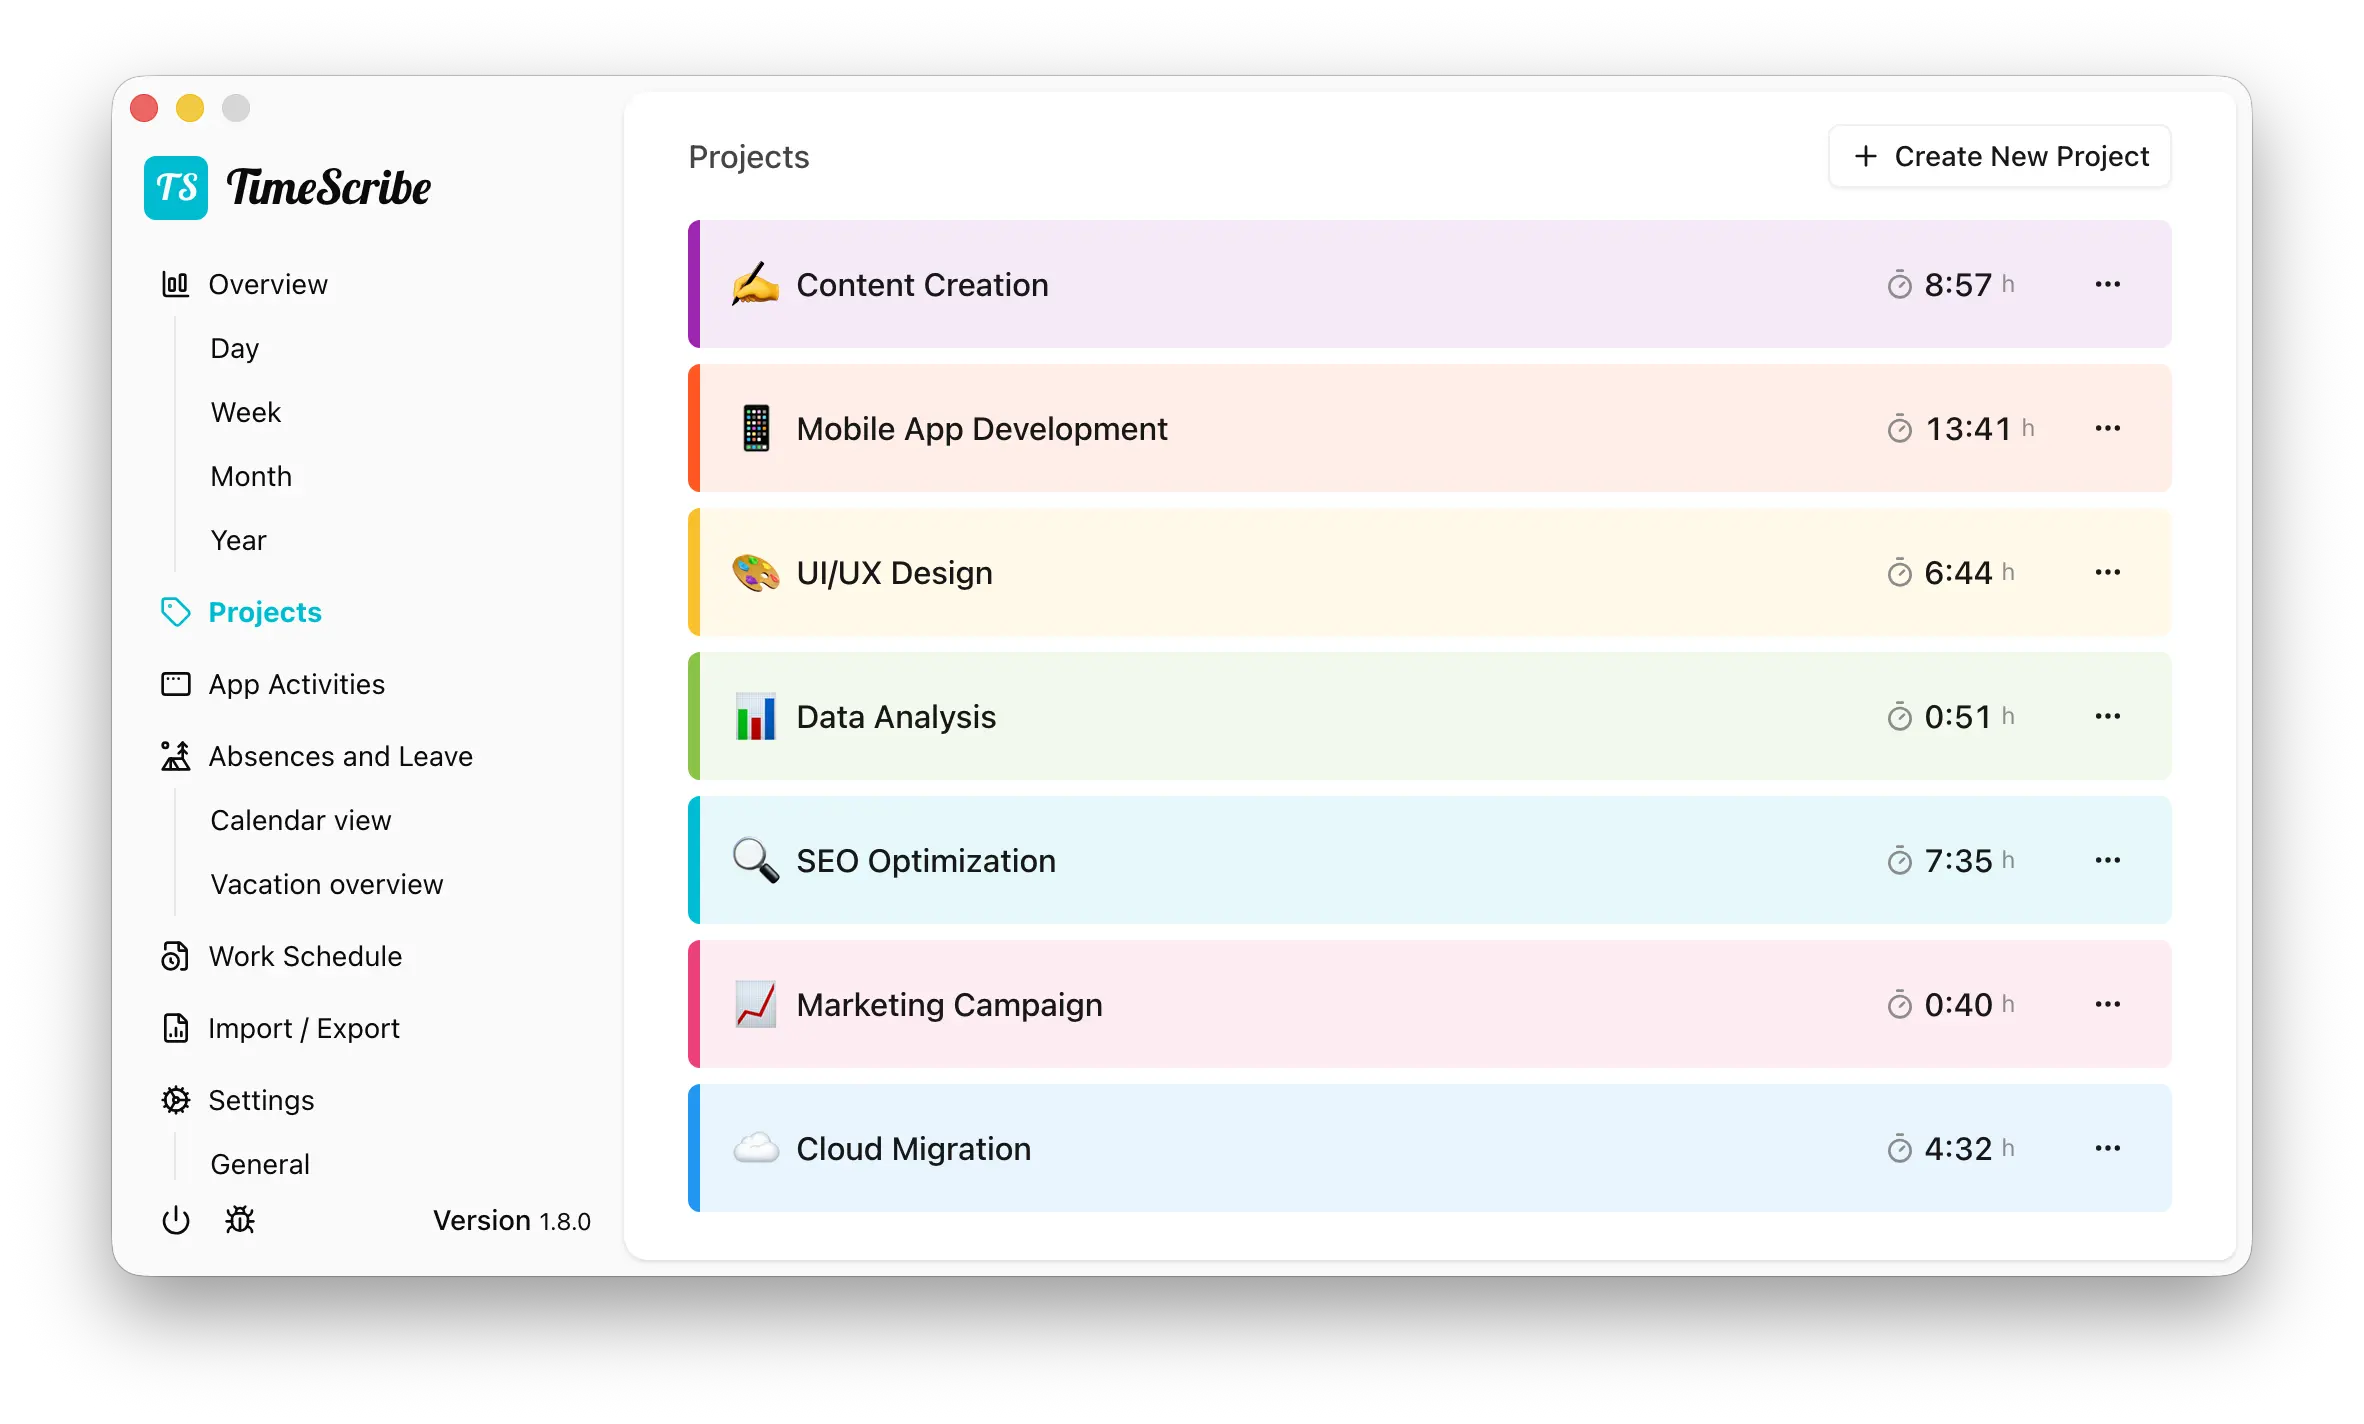
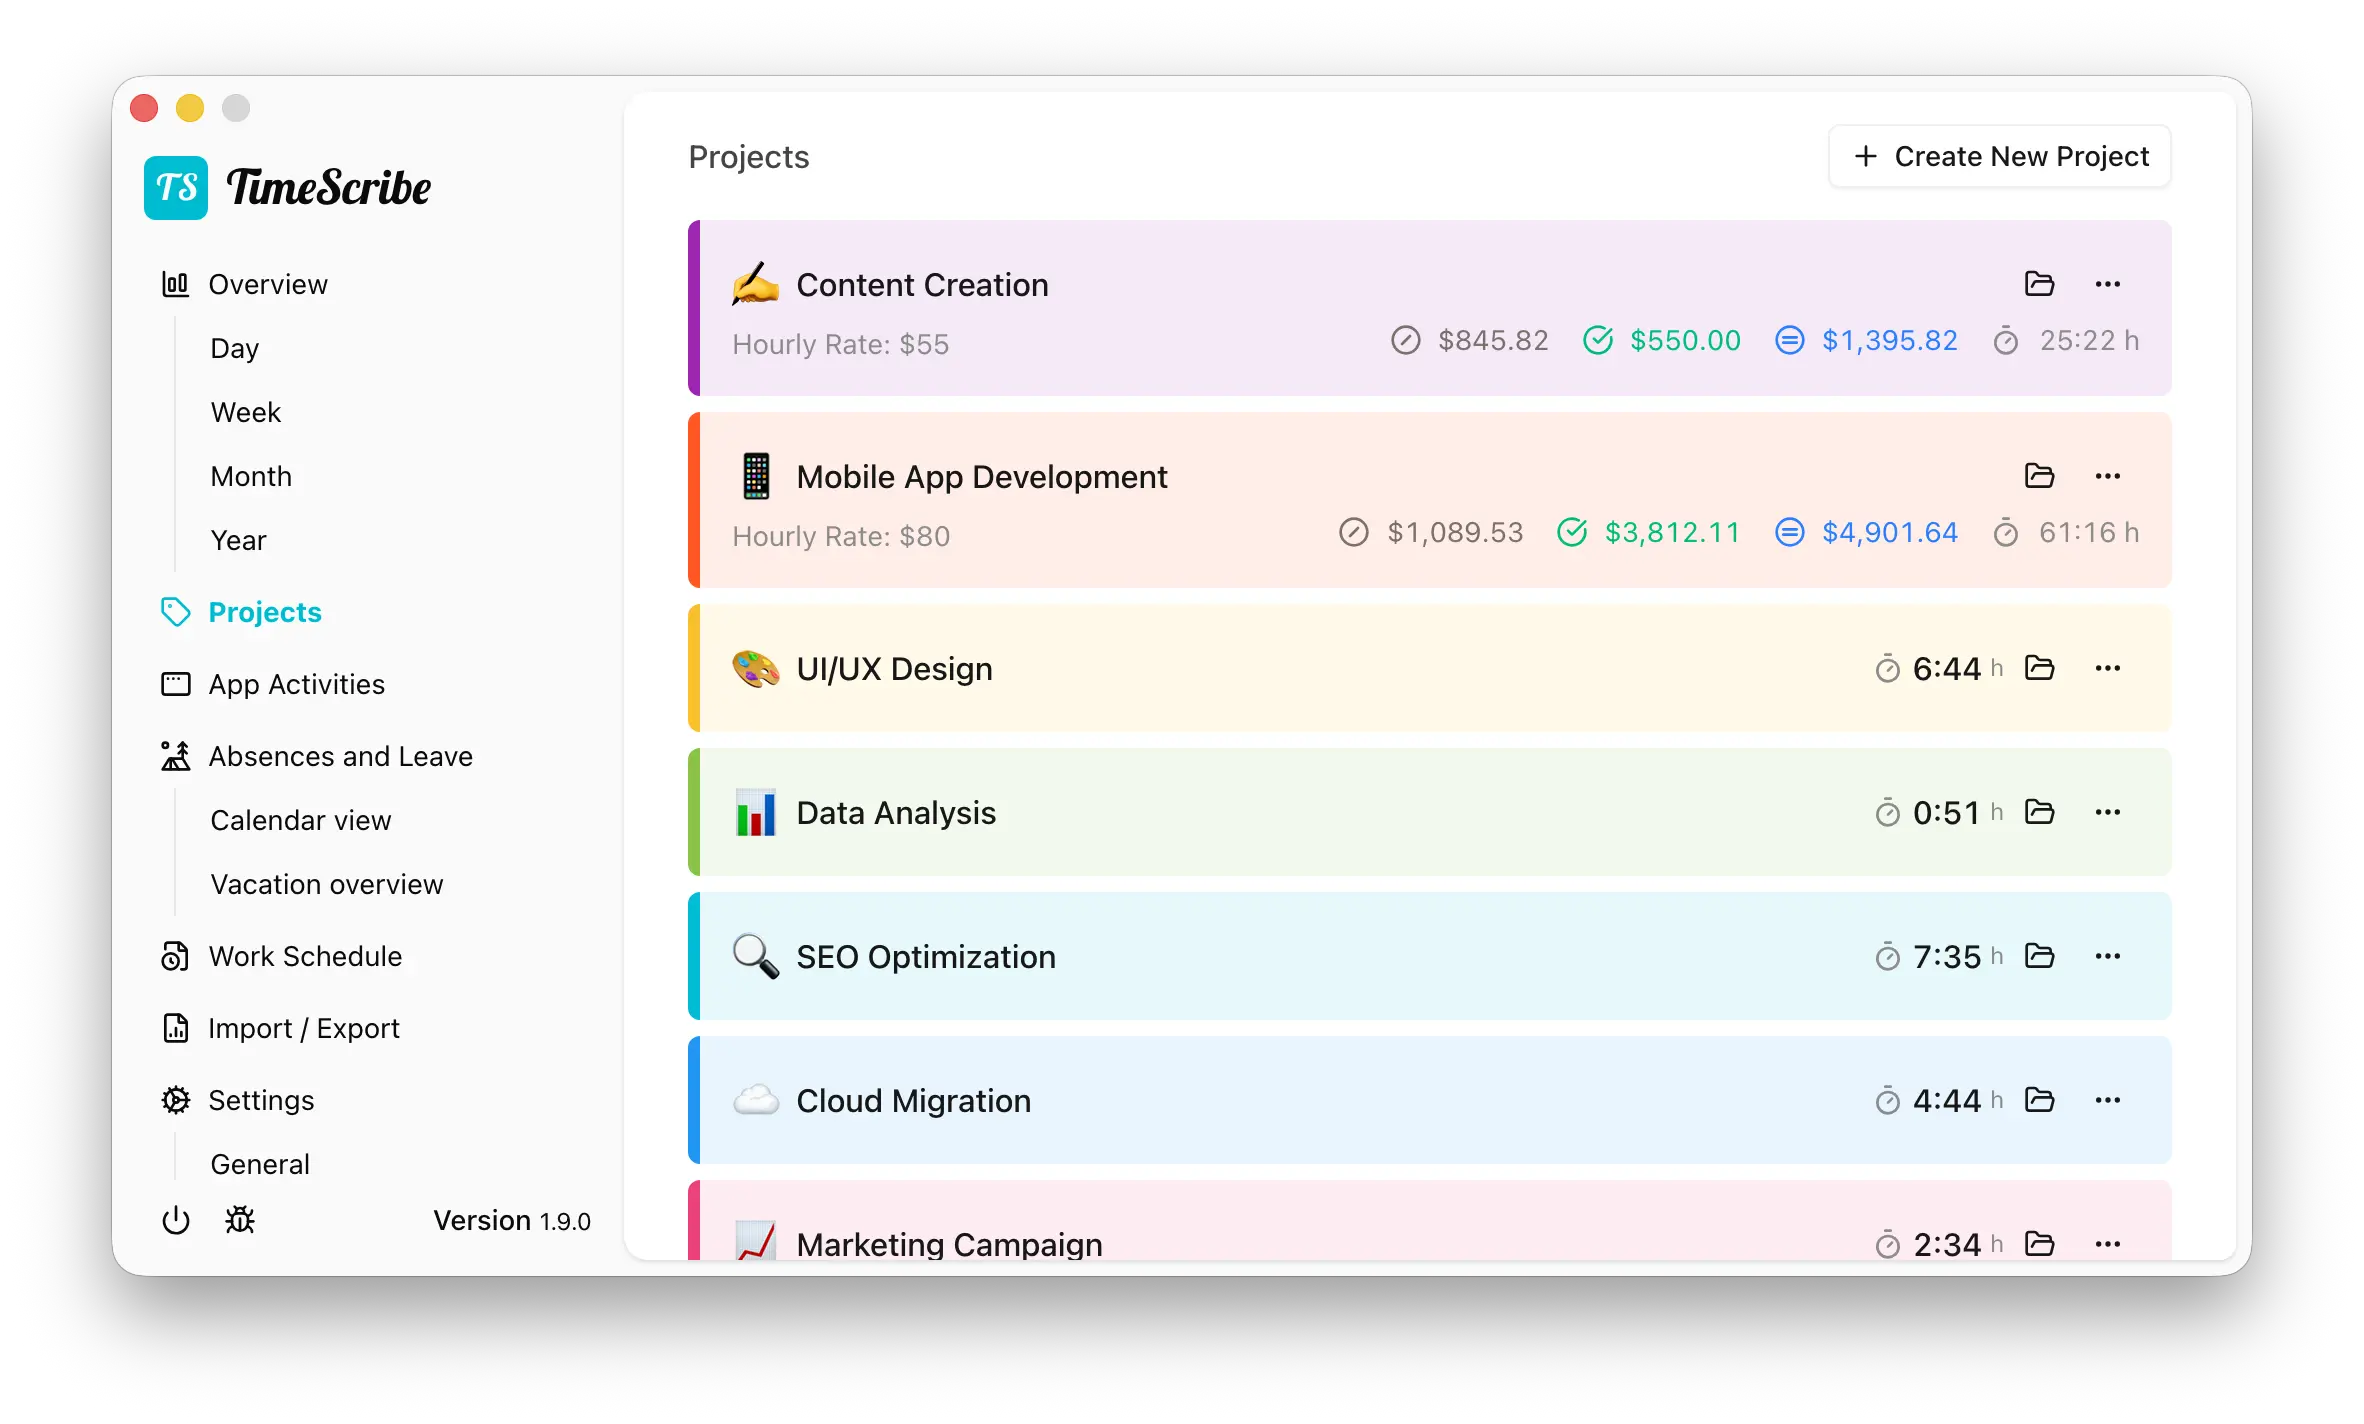
add: update README and images with project details and dark/light mode support

diff --git a/README.md b/README.md
@@ -161,6 +161,10 @@ php artisan native:build win
   <source media="(prefers-color-scheme: dark)" srcset="https://github.com/WINBIGFOX/Stempeluhr/blob/main/.github/images/projects_en_dark.webp?raw=true">
   <img alt="Project Tracking" src="https://github.com/WINBIGFOX/Stempeluhr/blob/main/.github/images/projects_en_light.webp?raw=true">
 </picture>
+<picture >
+  <source media="(prefers-color-scheme: dark)" srcset="https://github.com/WINBIGFOX/Stempeluhr/blob/main/.github/images/project_detail_en_dark.webp?raw=true">
+  <img alt="Project Tracking" src="https://github.com/WINBIGFOX/Stempeluhr/blob/main/.github/images/project_detail_en_light.webp?raw=true">
+</picture>
 </p>
 
 ### 🗓 Absence Planning
